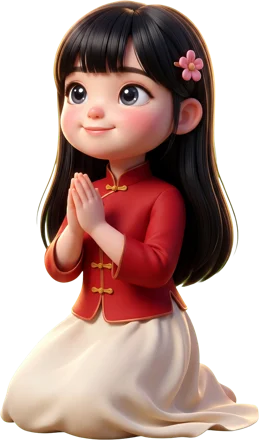
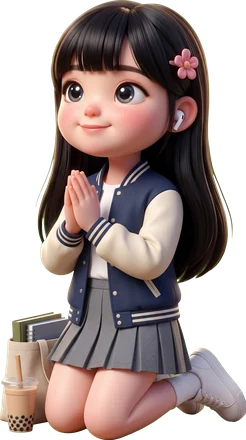
換上 8 個角色新圖（司機、大老闆、女大生、帽T男孩、媽媽、金融菁英、廟口少年、律師）和打小人婆婆；太歲殿按鈕不再擠成兩行
Claude-Session: https://claude.ai/code/session_019aNbR23k8LEos9ufs9bujj

diff --git a/index.html b/index.html
@@ -142,7 +142,7 @@
     <button data-act="jiao"><svg viewBox="0 0 24 24"><path d="M2 12c0-6 9-6 9 0-3-2-6-2-9 0z" fill="var(--red)"/><path d="M13 14c0-6 9-6 9 0-3-2-6-2-9 0z" fill="var(--red)" opacity=".7"/></svg><span>擲筊</span></button>
     <button data-act="draw"><svg viewBox="0 0 24 24"><rect x="6" y="9" width="12" height="13" rx="2" fill="#A0703E"/><path d="M9 10V3M12 10V1.5M15 10V4" stroke="var(--gold)" stroke-width="2" stroke-linecap="round"/></svg><span>太歲籤</span></button>
     <button data-ts="an"><svg viewBox="0 0 24 24"><rect x="6" y="2" width="12" height="20" rx="1" fill="var(--red)" stroke="var(--gold)" stroke-width="1.2"/><path d="M12 6v12M9 9h6M9 14h6" stroke="var(--gold)" stroke-width="1.2"/></svg><span>安太歲</span></button>
-    <button data-ts="who"><svg viewBox="0 0 24 24"><circle cx="12" cy="12" r="9" fill="none" stroke="var(--gold)" stroke-width="2"/><circle cx="12" cy="3" r="1.6" fill="var(--red)"/><circle cx="21" cy="12" r="1.6" fill="var(--red)"/><circle cx="12" cy="21" r="1.6" fill="var(--red)"/><circle cx="3" cy="12" r="1.6" fill="var(--red)"/><circle cx="12" cy="12" r="3" fill="var(--gold)"/></svg><span>誰犯太歲</span></button>
+    <button data-ts="who"><svg viewBox="0 0 24 24"><circle cx="12" cy="12" r="9" fill="none" stroke="var(--gold)" stroke-width="2"/><circle cx="12" cy="3" r="1.6" fill="var(--red)"/><circle cx="21" cy="12" r="1.6" fill="var(--red)"/><circle cx="12" cy="21" r="1.6" fill="var(--red)"/><circle cx="3" cy="12" r="1.6" fill="var(--red)"/><circle cx="12" cy="12" r="3" fill="var(--gold)"/></svg><span>犯太歲</span></button>
     <button data-jg="start"><svg viewBox="0 0 24 24"><path d="M12 3c2 0 3 1.4 3 3s-1 2.4-1.6 2.6H18l-.8 3h-2.6l1.2 9h-2.4l-1.4-5-1.4 5H8.2l1.2-9H6.8L6 8.6h4.6C10 8.4 9 7.6 9 6s1-3 3-3z" fill="#FFF6E2" stroke="var(--red)" stroke-width="1.2"/></svg><span>祭改</span></button>
   </nav>
   <nav class="bar bz-bar" id="bzBar" aria-label="流水席辦桌動作" hidden>

diff --git a/src/style.css b/src/style.css
@@ -119,6 +119,7 @@ button:focus-visible, [role="button"]:focus-visible, input:focus-visible { outli
   background: var(--paper); border: 1.5px solid var(--line); border-radius: 14px; padding: 6px 0 5px; font-size: 12px;
   transition: transform .12s;
 }
+.bar button span { white-space: nowrap; }
 .bar button:active { transform: translateY(2px); }
 .bar button svg { width: 26px; height: 26px; }
 .bar button.next { border-color: var(--gold); box-shadow: 0 0 0 2px color-mix(in srgb, var(--gold) 45%, transparent); }
